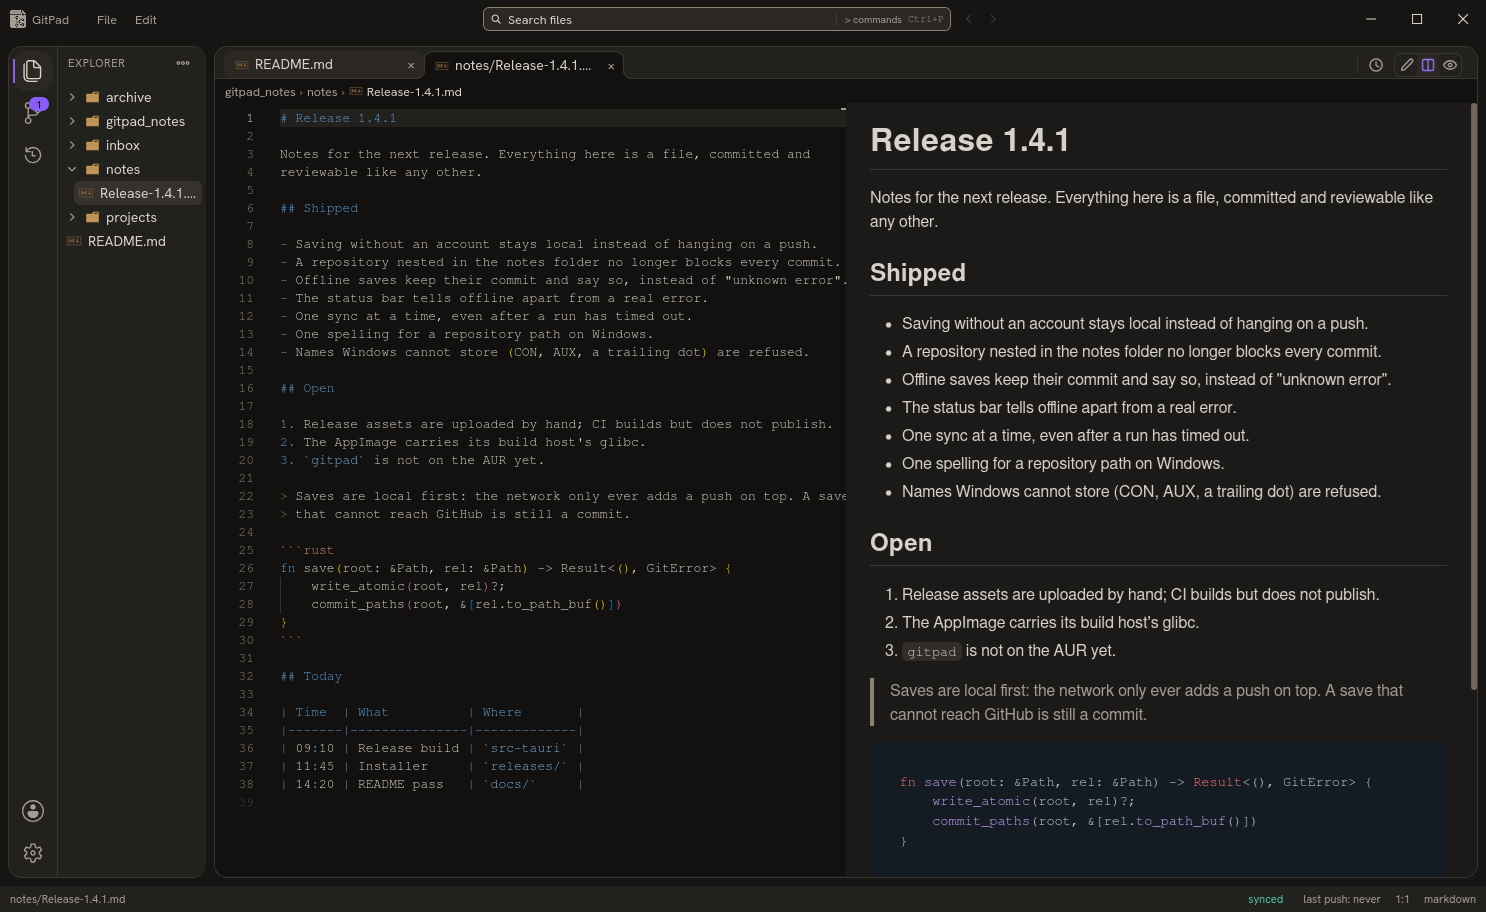
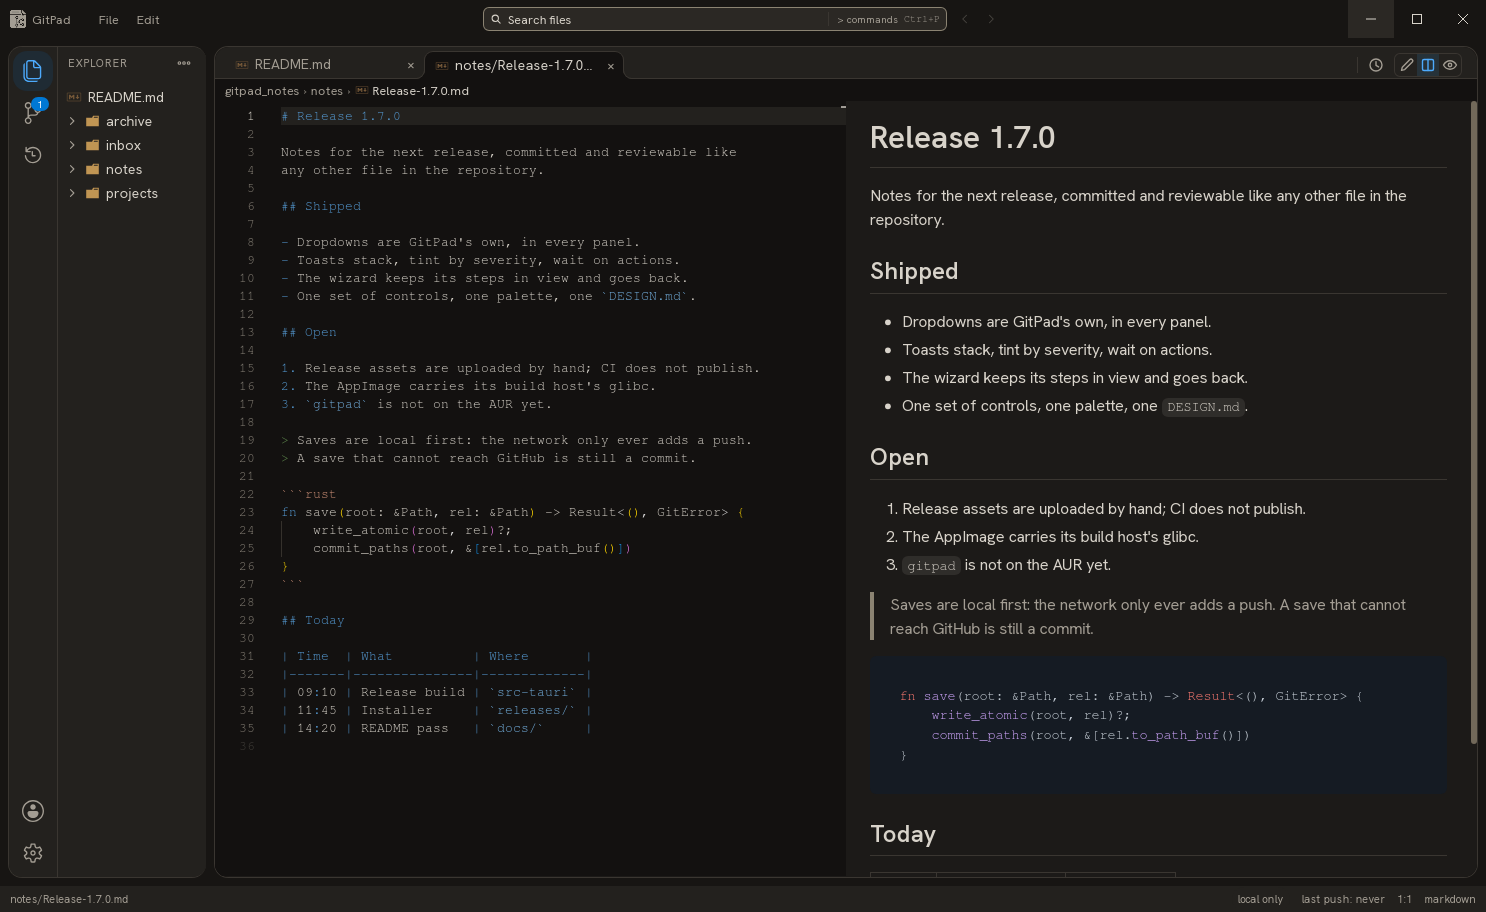
chore(release): 1.7.0

diff --git a/CHANGELOG.md b/CHANGELOG.md
@@ -1,5 +1,42 @@
 # Changelog
 
+## 1.7.0 — 2026-11-19
+
+### Added
+- Dropdowns are drawn by GitPad instead of the system: the list follows the
+  theme, opens from the keyboard (arrows, Home, End, Enter, Escape), flips up
+  near the bottom of the window, and is pinned to the viewport so a dialog
+  cannot clip it or let a closing click fall through.
+- Toasts are a stack of cards: a severity icon and tint, a title with the
+  message underneath, and a lifetime that grows with the severity and with an
+  action. A toast with an action waits for you, a timed one fades out, and
+  resting the pointer or the focus on the stack holds the clock.
+- The onboarding wizard shows its steps as a path with a stepper, moves back
+  as well as forward, slides its content in the direction of travel, and
+  offers the repository folder from the wizard footer.
+- One set of controls across settings, dialogs and the wizard: an animated
+  checkbox, a solid button that sweeps a highlight through its fill, a pill
+  segmented control, and an animated ring in the status bar while a sync, an
+  import or a delete runs.
+
+### Changed
+- The type scale is declared in rem, so the interface follows the system text
+  size, and the narrow-window rules engage at a width you can reach.
+- Editor surface, preview, panels, dialogs and selections share one palette
+  and one set of surfaces; the spacing, radius, elevation and motion contract
+  is written down in `DESIGN.md`.
+- Sorting by name, date or type keeps the direction you chose instead of
+  resetting it when the mode changes.
+
+### Fixed
+- The confirmation dialog traps focus and defaults to Cancel; the file-tree
+  menu is reachable and announced from the keyboard; the palette announces
+  its selected command to assistive tech.
+- Progress spinners keep moving under reduced motion, onboarding scrolls
+  instead of clipping on a 480 px window, the palette search field and the
+  history cards keep their height, and a drag settles once with the spring.
+- The last native tooltips go through GitPad's own, so they follow the theme.
+
 ## 1.6.0 — 2026-11-18
 
 ### Added
